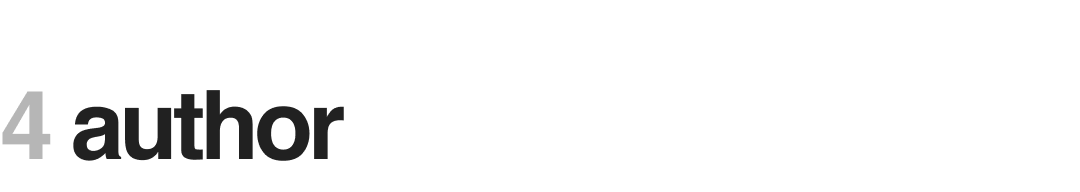
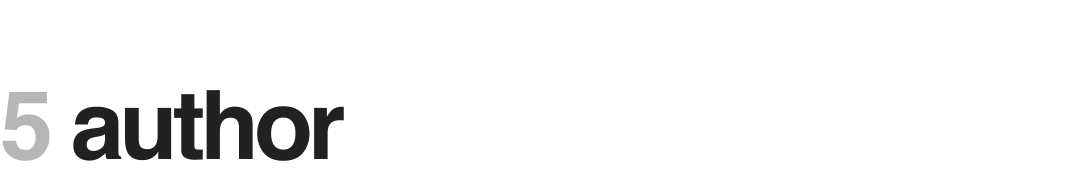
Fixed section headers.

Changed region(s): [[0.0, 0.4688, 0.0611, 0.8438]]

diff --git a/README.md b/README.md
@@ -194,7 +194,7 @@ To speed up the access of any given node, the model also stores a `HashMap` that
 
 Ideally, the model class should only deal with the data itself and should not handle any side effects such as printing to the console. However, due to time constraints, a few of the printing functions were delegated to this class. Nevertheless, the author resolved to isolate the printing processes as much as possible from the core functionalities of the `Model` class. 
 
-# 4 Reflections, Recommendations
+![reflections-and-recommendations](./README/header-reflections-and-recommendations.png)
 
 ### 4.1 Visualizing the Different Social Networks
 
@@ -205,8 +205,6 @@ Midway the project, there was a plan to visualize the datasets using [force-dire
 Rather than a recommendation: I find it interesting to think about how differently this project would have gone had I decided to stick to Java. In hindsight, there probably exists a faster way to read text files aside from parsing each token one after the other (which is what took so long with Java). If I figured this out early on, I might've had an easier time constructing the `Model` class (as I wouldn't have needed to implement hashmaps, queues, and stacks from the ground up). I could've had more time to visualize the datasets. Alas, it is too late to change this.
 
 Anyway, I do feel grateful having meddled with the implementations of those data structures; it taught me a lot having to build them with nothing but the barest of C tools (although I would like to say that it wasn't my first time doing this--I had a bit of fun doing that last term!)
-
-# 5 Author
 
 ![author](./README/header-author.png)
 ---
